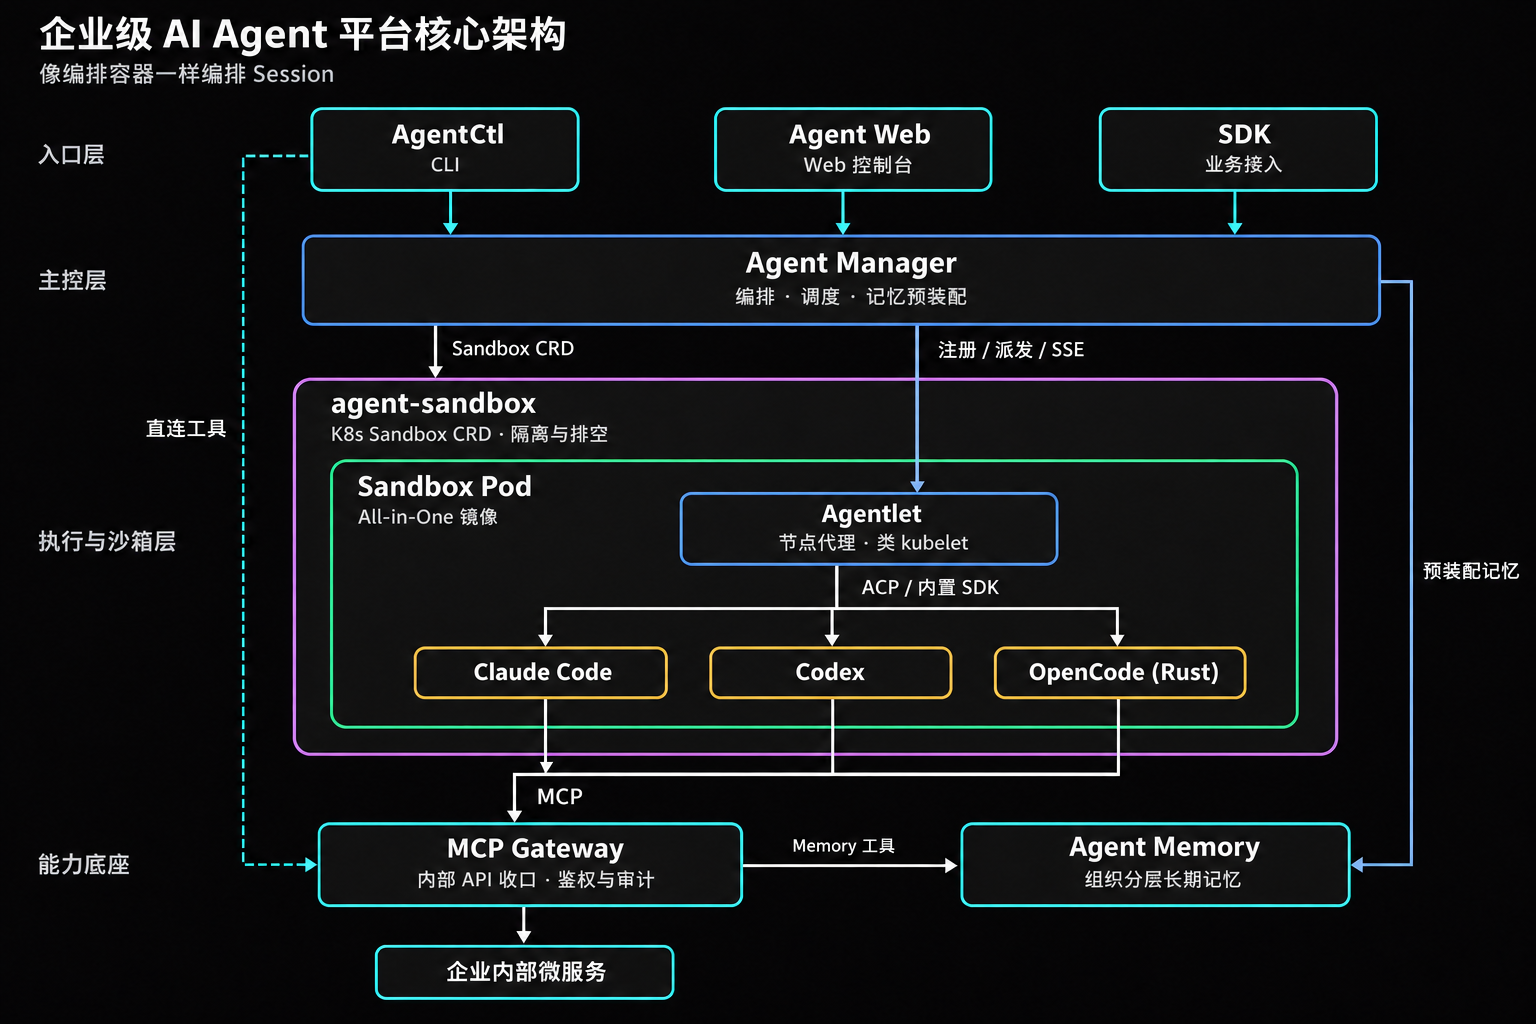
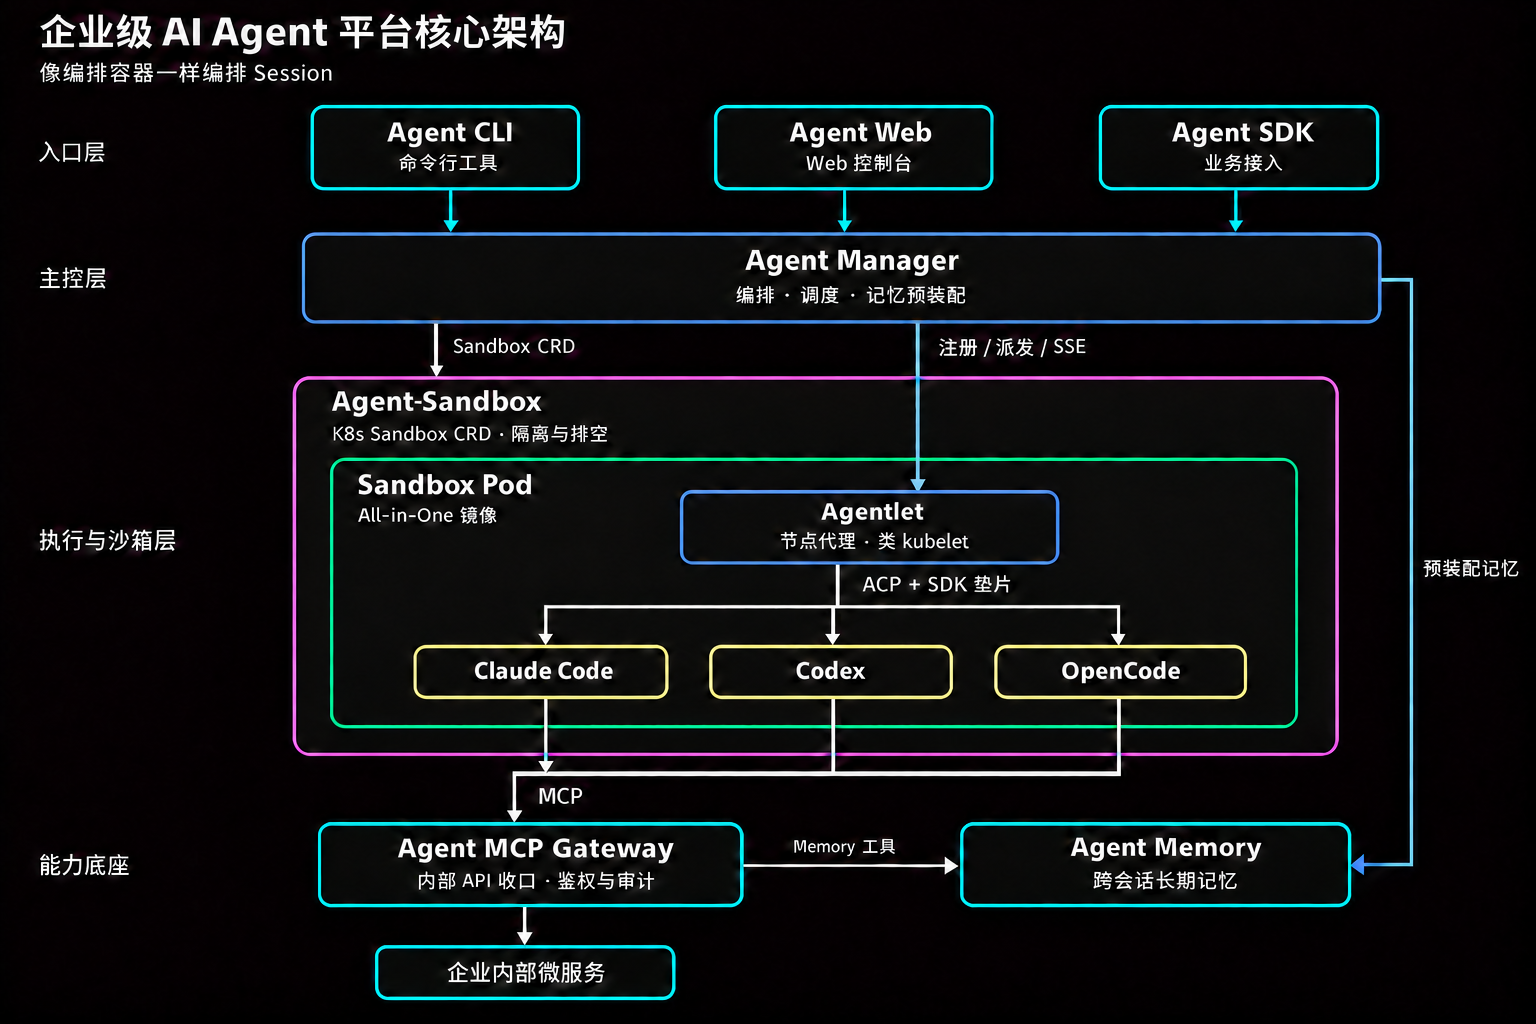
Refine enterprise AI agent platform architecture post and diagrams

diff --git a/_posts/2026-11-27-enterprise-agent-platform-architecture.md b/_posts/2026-11-27-enterprise-agent-platform-architecture.md
@@ -8,120 +8,86 @@ categories: ai agent architecture platform
 * TOC
 {:toc}
 
-在[《如何构建一个编码 Agent》](/2025/12/14/how-to-build-a-coding-agent/)里，一个能跑起来的编码 Agent 核心只有 300 行代码，在一个循环里消耗 Token、调工具。
+写一个单机 Coding Agent，核心循环几百行代码就能跑起来。但拿到公司里给多人用，麻烦的就不是循环本身了：几十上百个会话并发怎么调度、执行环境怎么隔离、内部业务接口怎么安全接入、历史经验怎么跨会话留下来。
 
-放到企业生产环境里，多人共用、沙箱隔离、调内部业务接口、跨会话记东西，每一块都会把那 300 行循环撑破。把外围的对象存储网关、离线评测和运营监控先拿掉，这套 Agent 平台的架构主线其实就一句话：像编排调度容器一样编排调度 Session。
-
-Kubernetes 把 Pod 当作最小调度单元，用控制面、节点代理（`kubelet`）和运行时接口（CRI）把编排与执行彻底分开。这里把最小调度单元换成了 Session：入口层、主控层、沙箱底座和运行时抽象层几乎与 Kubernetes 同构。不同之处在于，Session 会调用企业内部接口，也需要在会话结束后留下长期经验，所以平台在编排骨架之外补上了工具网关和记忆服务两块 Agent 原生底座。
+我主导设计并开发的这套企业级 Agent 平台的做法，是把 Session 当作最小调度单元，整体分层基本照着 Kubernetes 编排容器的思路来：入口层接请求，控制面做装配和调度，沙箱层提供隔离节点，节点代理抽象不同的 Agent Runtime。容器跑完进程就结束了，Session 还要调公司内部接口、还要记东西，所以在这套编排之外又独立了工具网关和记忆服务。
 
 ## 一、整体分层
 
-整套设计守住四条边界：控制面不跑模型循环，算力隔离与运行时解耦，内部接口统一走网关，沙箱内不直连记忆服务也不存业务密钥。
-
 ![企业级 AI Agent 平台核心架构](/assets/images/enterprise-agent-platform-architecture/architecture-overview.png)
 
-各层之间通过 REST、SSE、WebSocket、ACP、MCP 和 Kubernetes CRD 通信，彼此不共享数据库。对照 Kubernetes 的分层来看，六个核心组件的定位非常直接：
+各层之间只走网络协议或 Kubernetes CRD，不共享数据库。对照 Kubernetes 的组件，分工大概是这样：
 
-| 层级 | 组件 | K8s 类比 | 技术栈 | 职责 |
-| --- | --- | --- | --- | --- |
-| 入口层 | `Agent Web` / `AgentCtl` / `SDK` | Dashboard / `kubectl` / Client SDK | React / Rust / 多语言 SDK | 承接人、终端与业务系统三类请求，统一进入控制面 |
-| 主控层 | `Agent Manager` | Control Plane (API Server / Scheduler / Reconciler) | Go | 管理资产、权限、会话编排、记忆预装配与沙箱调度 |
-| 沙箱底座 | `agent-sandbox` | Node / 算力节点 | Go / Kubernetes CRD | 基于开源 `kubernetes-sigs/agent-sandbox`，以 CRD 管理运行时 Pod 的身份、存储与隔离 |
-| 运行时抽象与镜像 | `Agentlet` + ACP Runtimes + 统一镜像 | `kubelet` + CRI + `containerd` + 容器镜像 | Go + ACP / Rust | 运行在沙箱内的节点代理，依托 All-in-One 镜像和 ACP 协议纳管 `Claude Code`、`Codex` 与 OpenCode 的 Rust 实现 |
-| 工具接入层 | `MCP Gateway` | Agent 原生扩展 | Java / Spring Boot | 把企业内部微服务 API 收口为标准 MCP Tool，统一做鉴权、风控与审计 |
-| 记忆层 | `Agent Memory` | Agent 原生扩展 | Python / Mem0 / Qdrant | 提供跨会话、按组织树继承的长期记忆存储、混合检索与异步蒸馏 |
+| 层级 | 组件 | K8s 类比 | 职责 |
+| --- | --- | --- | --- |
+| 入口层 | `Agent Web` / `Agent CLI` / `Agent SDK` | Dashboard / `kubectl` / Client SDK | 接网页、终端和业务系统三类请求，统一进控制面 |
+| 主控层 | `Agent Manager` | Control Plane (API Server / Scheduler / Reconciler) | 管资产、权限、会话装配、记忆预拉取和沙箱调度 |
+| 沙箱层 | `Agent Sandbox` | Node / 算力节点 | 基于开源 `kubernetes-sigs/agent-sandbox`，用 CRD 管运行时 Pod 的身份、存储和隔离 |
+| 运行时层 | `Agentlet` + Runtimes + 统一镜像 | `kubelet` + CRI + `containerd` + 容器镜像 | 跑在沙箱内的节点代理，靠 All-in-One 镜像和 ACP 协议纳管 `Claude Code`、`Codex` 和 `OpenCode` |
+| 工具网关 | `Agent MCP Gateway` | Agent 专属扩展 | 把公司内部微服务 API 转成标准 MCP Tool，做鉴权、风控和审计 |
+| 记忆服务 | `Agent Memory` | Agent 专属扩展 | 为会话提供跨生命周期的长期记忆注入、按需读写与异步抽取 |
 
-## 二、入口层：Agent Web、AgentCtl 与 SDK
+## 二、入口层：Agent Web、Agent CLI 与 Agent SDK
 
-企业里调用 Agent 的有三种角色，入口层对应分成三个客户端。
+`Agent Web` 给人用，负责 Agent 编排、Skill / MCP 资产管理、对话和审批，权限判断统一在后端完成。
 
-`Agent Web` 给人用，负责 Agent 编排、Skill、Prompt 和 MCP 资产管理，以及对话和审批界面。权限判断全放在后端，接口返回节点能力位，前端只按能力位决定按钮能不能点。
+`Agent CLI` 是 `Agent Web` 的命令行化形态，采用 `kubectl` 风格，方便用户通过本地的 Agent 或终端直接操作和管理平台。
 
-`AgentCtl` 是 Rust 写的单文件 CLI，命令风格贴近 `kubectl`，既给研发管理平台资源，也给 AI 编码代理自己调企业工具。为了省 Context Token，工具调用拆成 `search → get → call` 三步：搜索只返回工具名和简短描述，选定之后再拉完整的 `inputSchema`。输出契约偏向机器解析，stdout 只吐数据，stderr 只吐单行 JSON 错误，退出码按未登录、无权限、参数错误、网关暂不可达细分。CLI 刻意不提供 `--yes` 之类的本地跳过参数，高危操作一律在服务端拦住。
-
-`SDK` 给企业内部业务系统用，封装了非流式对话、SSE 流式对话和会话状态接口。流式调用的重试边界划得很死：建连阶段可以按配置重试，一旦 SSE 响应头交给业务回调就禁止自动重试，避免业务收到两段重复文本、后台 Agent 被重复触发。业务方如果要把终端用户的邮箱、SSO Token、租户或记忆维度传给下游工具，SDK 会用公钥把这些字段加密进单个 `Agent-Business-Context` 请求头，避免明文凭据流经沙箱和模型上下文。
+`Agent SDK` 给内部业务系统接入，封装对话、流式输出和会话状态查询，并支持把终端用户的业务身份安全透传给下游工具。
 
 ## 三、主控层：Agent Manager
 
-`Agent Manager` 用 Go 编写，管着 Agent 定义与版本、Skill 与 Prompt 目录、模型配置、多租户权限、IM 与定时渠道，以及引擎池和会话生命周期。
+`Agent Manager` 管着平台所有的元数据和状态：Agent 定义与版本、Skill 目录、模型配置、Agent Runtime / Harness 配置、多租户权限、引擎池以及会话生命周期。
 
-架构上最重要的一条约束是：`Agent Manager` 只管编排、路由和状态，绝不在控制面进程里跑 LLM 循环或执行工具。
+它自己不跑模型循环，也不执行工具。控制面发版不会中断运行中的长会话，单个沙箱节点故障也不会影响管理后台。
 
-这样拆开后，控制面日常发版不会打断正在跑长任务的会话，单个执行节点挂掉也不会拖垮管理后台。收到请求时，控制面从关系型数据库里捞出 Prompt、绑定的 Skills、模型配置和授权 MCP 列表，再按场景去记忆服务拉好上下文，整包装配完调度给空闲的沙箱节点。
+一次对话请求进来，控制面先拼出这次会话需要的 Agent 定义、Runtime / Harness 配置、Skills、模型配置和授权 MCP 清单，再去记忆服务按场景拉取相关记忆，全部备齐后派发给空闲沙箱。
 
-## 四、沙箱底座：agent-sandbox
+## 四、沙箱层：Agent Sandbox
 
-把 Agent 运行时直接丢进普通的 Kubernetes `Deployment` 或 `StatefulSet`，用一段时间就会碰到几个绕不开的问题。`Deployment` 面向无状态副本，没有单实例稳定身份、独立持久工作目录和休眠恢复语义，很难支持按 Agent 独占绑定的长会话。`StatefulSet` 的副本按 `0, 1, 2...` 顺序编排，想把中间某个空闲或解绑的专属实例单独删掉非常别扭，也没法直接做高并发认领池。
+Kubernetes 原生的 `Deployment` 面向无状态副本，缺少单实例稳定身份和独立持久工作目录；`StatefulSet` 按序号伸缩，很难单独回收中间某个空闲或解绑的专属实例。
 
-平台因此直接引入了 Kubernetes SIG Apps 孵化的开源项目 [`kubernetes-sigs/agent-sandbox`](https://github.com/kubernetes-sigs/agent-sandbox)。
+平台引入了 Kubernetes SIG Apps 孵化的开源项目 [`kubernetes-sigs/agent-sandbox`](https://github.com/kubernetes-sigs/agent-sandbox)（下文简称 `Agent Sandbox`）。`Agent Manager` 通过 `Sandbox` CRD 管理集群里的运行时节点，提供稳定的网络身份和持久化工作目录，同时支持共享引擎池和按 Agent 独占绑定两种模式。节点缩容或回收前先排空，不再派发新会话，等在途任务结束后再删 `Sandbox`。
 
-生产主链路上，`Agent Manager` 里的 `SandboxManager` 直接通过 `agents.x-k8s.io` clientset 管理集群里的 `Sandbox` CR，给每个运行时实例分配稳定的网络身份和持久化工作目录，同时支持共享引擎池和按 Agent 独占绑定两种模式。缩容或回收节点时，控制面先原子地把节点状态改成 `draining`，停掉新会话派发，等在途任务全部结束再删对应的 `Sandbox` CR。
+在此之上，`Agent Sandbox` 还提供 `SandboxTemplate`、`SandboxWarmPool`、`SandboxClaim`（预热池认领）以及通过 Kubernetes `RuntimeClass` 对接 gVisor / Kata Containers 的强隔离能力。
 
-在这个核心 CRD 之上，`agent-sandbox` 开源生态还自带 `SandboxTemplate`、`SandboxWarmPool` 和 `SandboxClaim`（预热池秒级认领，用来压低冷启动），并能通过 Kubernetes `RuntimeClass` 把内核和网络隔离交给 gVisor 或 Kata Containers，后续做强隔离执行可以直接沿这套标准扩展。
+## 五、运行时层：Agentlet、ACP 与统一镜像
 
-## 五、运行时抽象与镜像环境：Agentlet、ACP 与统一镜像
+`Agent Sandbox` 负责把 Pod 拉起来，跑在 Pod 里跟控制面打交道的是 `Agentlet`。和 Kubernetes 里 `kubelet` 通过 CRI 隔离容器运行时一样，`Agentlet` 以 ACP（Agent Client Protocol）为核心抽象，把控制面调度和底层各种 Agent Runtime 隔开。
 
-`agent-sandbox` 负责把 Pod 拉起来，跑在 Pod 里面跟 `Agent Manager` 对话的是 `Agentlet`。
+### 5.1 ACP + SDK 垫片收敛多类 Runtime
 
-类比 Kubernetes 的分层：`kubelet` 通过 CRI 屏蔽底层容器运行时，这里用 `Agentlet` 配合 ACP（Agent Client Protocol）协议，把控制面调度和底层各种 Agent Runtime 隔开。
+Sandbox Pod 起来后，`Agentlet` 主动向 `Agent Manager` 反向注册，上报可用 Runtime 和负载心跳。往下所有执行引擎都收敛在 ACP 这一套统一交互抽象里：
 
-### 5.1 用统一契约收敛多类 Runtime
+- `OpenCode` 等原生支持 ACP 的代理，直接通过标准 ACP 协议接入。
+- `Claude Code` 和 `Codex` 官方 CLI 原生不支持 ACP，通过 `Agentlet` 内置的 SDK 垫片做协议转换后接入。
 
-Sandbox Pod 启动后，`Agentlet` 主动向 `Agent Manager` 反向注册，上报本机可用的运行时列表和负载心跳。往下按运行时是否原生支持标准 ACP 分两条路，统一收敛到 `Agentlet` 的运行时契约（ARI）里：
+上层控制面和业务方只面对 `Agentlet` 这一层，切换底层 Runtime 只需要改配置。
 
-- 自研主力多租户引擎（OpenCode 的 Rust 实现）：`Agentlet` 走 HTTP Provision 加 ACP-v1/WebSocket 协议，早期的直连 HTTP/SSE 路径已经彻底删掉。
-- 原生支持 ACP 的代理（如 OpenCode CLI）：直接以 `<bin> acp` 启动标准 ACP stdio 服务。
-- `Claude Code` 与 `Codex`：官方 CLI 原生不支持标准 ACP，Claude 走 `stream-json` over stdio，Codex 走自家的 `app-server` JSON-RPC。平台在 `Agentlet` 里用内置 Go SDK 直接驱动它们并实现同一套运行时契约。
+### 5.2 All-in-One 镜像与滚动更新
 
-这里踩过一个值得记下来的协议取舍：早期尝试过给 Claude 和 Codex 强行套一层进程内的 ACP Facade，让所有引擎都走标准 ACP 管道。但标准 ACP 的 `session/new` 和 `session/prompt` 是按「编辑器对接 Agent」设计的，放不下平台多租户调度需要的参数（比如按会话隔离的 `CODEX_HOME`、语义无进展超时预算、service tier 和 thinking level），在协议边界手写字段映射还曾静默漏掉 8 个配置项。最终改成原生支持 ACP 的走 ACP、走私有协议的由内置 SDK 直接对接 `Agentlet` 契约，上层控制面和业务方切 Runtime 依然只需要改配置，不用动调度代码。
+沙箱容器采用 All-in-One 统一镜像：底包预装常用的脚本与数据分析环境，上层打包 `Agentlet` 以及 `Claude Code`、`Codex` 和 `OpenCode` 三个运行时。
 
-### 5.2 把 OpenCode 用 Rust 重写
+同一套引擎池可以按会话配置动态选 Runtime，不用为每种引擎各维护一套镜像和算力池。镜像版本和引擎池模板由 `Agent Manager` 统一管理，升级时配合节点排空机制逐批滚动替换 Sandbox。
 
-平台主力多租户引擎本质上是 OpenCode 的 Rust 实现。早期直接拿 TypeScript/Bun 的单用户 CLI 改造成服务端引擎，跑上多租户并发后很快暴露了运行时瓶颈：单 JS 线程互相阻塞、V8 GC 停顿拖慢 SSE 推送、全进程共享单文件 SQLite 写锁打架，MCP 连接也没法复用，断连后工具直接消失。
+## 六、工具网关：Agent MCP Gateway
 
-团队在保留 OpenCode 能力语义的前提下，用 Rust 和 Tokio 重写了一遍，把存储改成 per-session 独立 SQLite，补上 MCP 工具缓存、断连自动恢复和多租户子任务公平排队，单节点表现拉开了一个量级：
+公司内部业务接口多、鉴权方式不统一，`Agent MCP Gateway` 把这些微服务 API 统一转成标准 MCP Tool 对外暴露。
 
-| 指标 | 旧引擎 (TS / Bun 单用户改造) | 自研 Rust Runtime (OpenCode Rust 实现) |
-| --- | --- | --- |
-| 单 Pod 稳定并发 | ~15 Sessions | 100+ Sessions |
-| 进程内存基线 | ~120 MB (V8 堆) | ~8 MB (无 GC) |
-| 冷启动耗时 | ~800 ms | ~50 ms |
-| 存储与并发隔离 | 全进程单文件 SQLite、单线程共享 | per-session 独立 SQLite、Tokio 多线程隔离 |
+网关提供单一接入端点，按场景标签和权限动态裁剪工具列表，避免一次把全量接口 Schema 灌进上下文。工具元数据支持热刷新，下游接口的认证、参数映射和响应提取全部可配置化。
 
-因为上层只认 `Agentlet` 和 ACP，这次引擎替换对控制面和前端没有造成改动。
+同时，网关内置细粒度权限校验、风险分级、高危操作人工确认和全链路审计，并负责在调用下游微服务前还原业务身份上下文，保证沙箱和执行引擎不接触明文凭据。
 
-### 5.3 All-in-One 镜像与滚动更新
+## 七、记忆服务：Agent Memory
 
-沙箱容器采用 All-in-One 统一镜像，底层基于预装 Python/Conda 和 Node LTS 的基础镜像，方便沙箱里直接跑数据分析、用户脚本和 Skill 工具链。镜像里同时装好 `Agentlet`（用 `exec` 作为 PID 1，直接接 `SIGTERM` 做优雅排空）以及 `Claude Code`、`Codex` 和 OpenCode Rust 实现三个二进制。同一套引擎池能按会话配置动态选 Runtime，省去了为每种引擎单独维护镜像和算力池的麻烦。
+`Agent Memory` 负责跨会话的长期记忆，让 Agent 在不同会话之间保留背景知识与历史经验。在平台里，它按会话阶段分三段介入，沙箱内不直连记忆服务：
 
-所有运行时和工具都先沉淀到企业内网制品库，构建时锁定不可变版本，不用 `:latest`。各家 CLI 一律弃用 npm loader，改用官方原生二进制。之前踩过一个很具体的坑：npm loader 版的 CLI 光跑一次 `--version` 就要 14 秒以上，直接打爆 `Agentlet` 启动期 10 秒的版本探针，导致节点拒绝注册该 Runtime；换成原生二进制后降到 0.05 秒。
-
-受管容器镜像目录和引擎池模板由 `Agent Manager` 统一维护。基础环境或 Runtime 升级时，Reconciler 结合前面提到的 `draining` 排空机制，自动把集群里的 Sandbox 节点逐批滚完。
-
-## 六、工具接入层：MCP Gateway
-
-企业里的业务接口动辄成百上千，如果让每个 Agent 自己拼 HTTP 请求、管 Token、写审计，维护和安全都会失控。`MCP Gateway`（Java / Spring Boot）作为统一工具网关，把内部微服务 API 转成标准 MCP Tool 暴露出来。
-
-网关对外只开一个 `/mcp` 端点，支持 Streamable HTTP 以及基于 `Last-Event-ID` 的 SSE 断线重放。`tools/list` 按 `tags` 场景标签和权限策略动态裁剪返回结果，避免把几百个接口 Schema 一次灌进模型上下文。工具元数据存 MySQL，加一层本地内存和 Redis 缓存支持热刷新。下游接口的认证方式（Bearer、Basic、API Key、OAuth2）、请求体编码、参数映射和响应提取（JSONPath、JSON Pointer）全部做成可配置策略，业务方接内部接口不用写胶水代码。
-
-安全层面，网关内置 ABAC 权限校验和四级风险分级（`LOW`、`MEDIUM`、`HIGH`、`CRITICAL`），高危写接口可以强制拦截或要求人工确认（Human-in-the-Loop），所有调用异步落盘三层审计日志。入口 SDK 加密传进来的 `Agent-Business-Context` 请求头，穿过沙箱和执行引擎期间一直保持密文，直到 `MCP Gateway` 这一跳才还原，按模板变量塞进下游微服务的请求头或参数里。
-
-## 七、记忆层：Agent Memory
-
-没有记忆服务的 Agent，每次新开会话都得重新交代一遍背景和团队规范。`Agent Memory`（Python / FastAPI / Mem0 / Qdrant / MySQL）把长期记忆独立出来，同时支持 REST 和可选 MCP 接口。
-
-记忆按一棵 N 级组织树组织（如 `company → bu → dept → center → team → personal`），并覆盖 Agent、代码仓库、群聊等多个维度，再用 `scene` 把 IM 群聊和平台对话这类不同场景隔开。检索时跨维度多路扇出，在 Qdrant 里同时做语义向量和 BM25 稀疏检索，部分分片失败时降级返回不拖垮整次查询。记忆内容分为四类：`directive`（红线指令）、`procedural`（流程 SOP）、`semantic`（事实知识）和 `episodic`（历史经历）。排序权重按类型和组织深度做插值，指令类偏向根节点（公司规范压过个人习惯），经历类偏向叶节点（个人最近一次排障比半年前的记录更优先）。
-
-存储一致性上，服务明确以 Mem0/Qdrant 为主数据面，MySQL 只做备份投影、审计历史和恢复账本。写入不走同步双写，而是走 Write Intent Log（写入意图日志）：先落一条带幂等键的意图记录，再写 Mem0/Qdrant，最后异步更新 MySQL 投影；遇到超时或未知状态，由后台 Worker 按状态机查证恢复。
-
-接入方式按会话阶段分成三段，确保沙箱里不直连记忆服务：
-
-- 会话前：`Agent Manager` 在 Session Provision 阶段按用户和 `scene` 从 `Agent Memory` 拉取记忆清单，随会话上下文一并下发。
-- 运行中：Runtime 本地只维护工作目录里的 `Agent.md`。如果推理过程中需要主动查或写组织记忆，统一调 `MCP Gateway` 暴露的 Memory 工具，沙箱进程本身不持有记忆服务的密钥。
-- 会话后：`Agent Memory` 的 `Session Dream` 后台任务定时扫描静默结束的会话存储，异步抽取高价值经验回写记忆库，敏感维度叠加隐私门禁和人工审批。
+- 会话前：`Agent Manager` 按当前用户和场景预拉取相关记忆，随会话上下文一并下发。
+- 运行中：需要主动查或写记忆时，统一调用 `Agent MCP Gateway` 暴露的 Memory 工具，沙箱本身不持有记忆服务密钥。
+- 会话后：后台任务从结束的会话记录里异步抽取有价值的经验回写记忆库，敏感维度过隐私校验和人工审批。
 
 ## 八、一次完整请求的流转
 
 ![一次完整对话请求的端到端流转](/assets/images/enterprise-agent-platform-architecture/request-flow.png)
 
-整条链路上，控制面负责配置装配、记忆预拉取和沙箱调度；沙箱里的 `Agentlet` 和 Runtime 只管推理与本地执行，既不直连内部业务接口，也不持有记忆服务密钥；所有对企业内部系统与组织记忆的访问都收口在 `MCP Gateway`。
+整个流程里，配置装配、记忆预拉取和沙箱调度留在控制面，推理和本地工具执行关在沙箱里，访问内部业务接口和长期记忆全部从 `Agent MCP Gateway` 出去。
